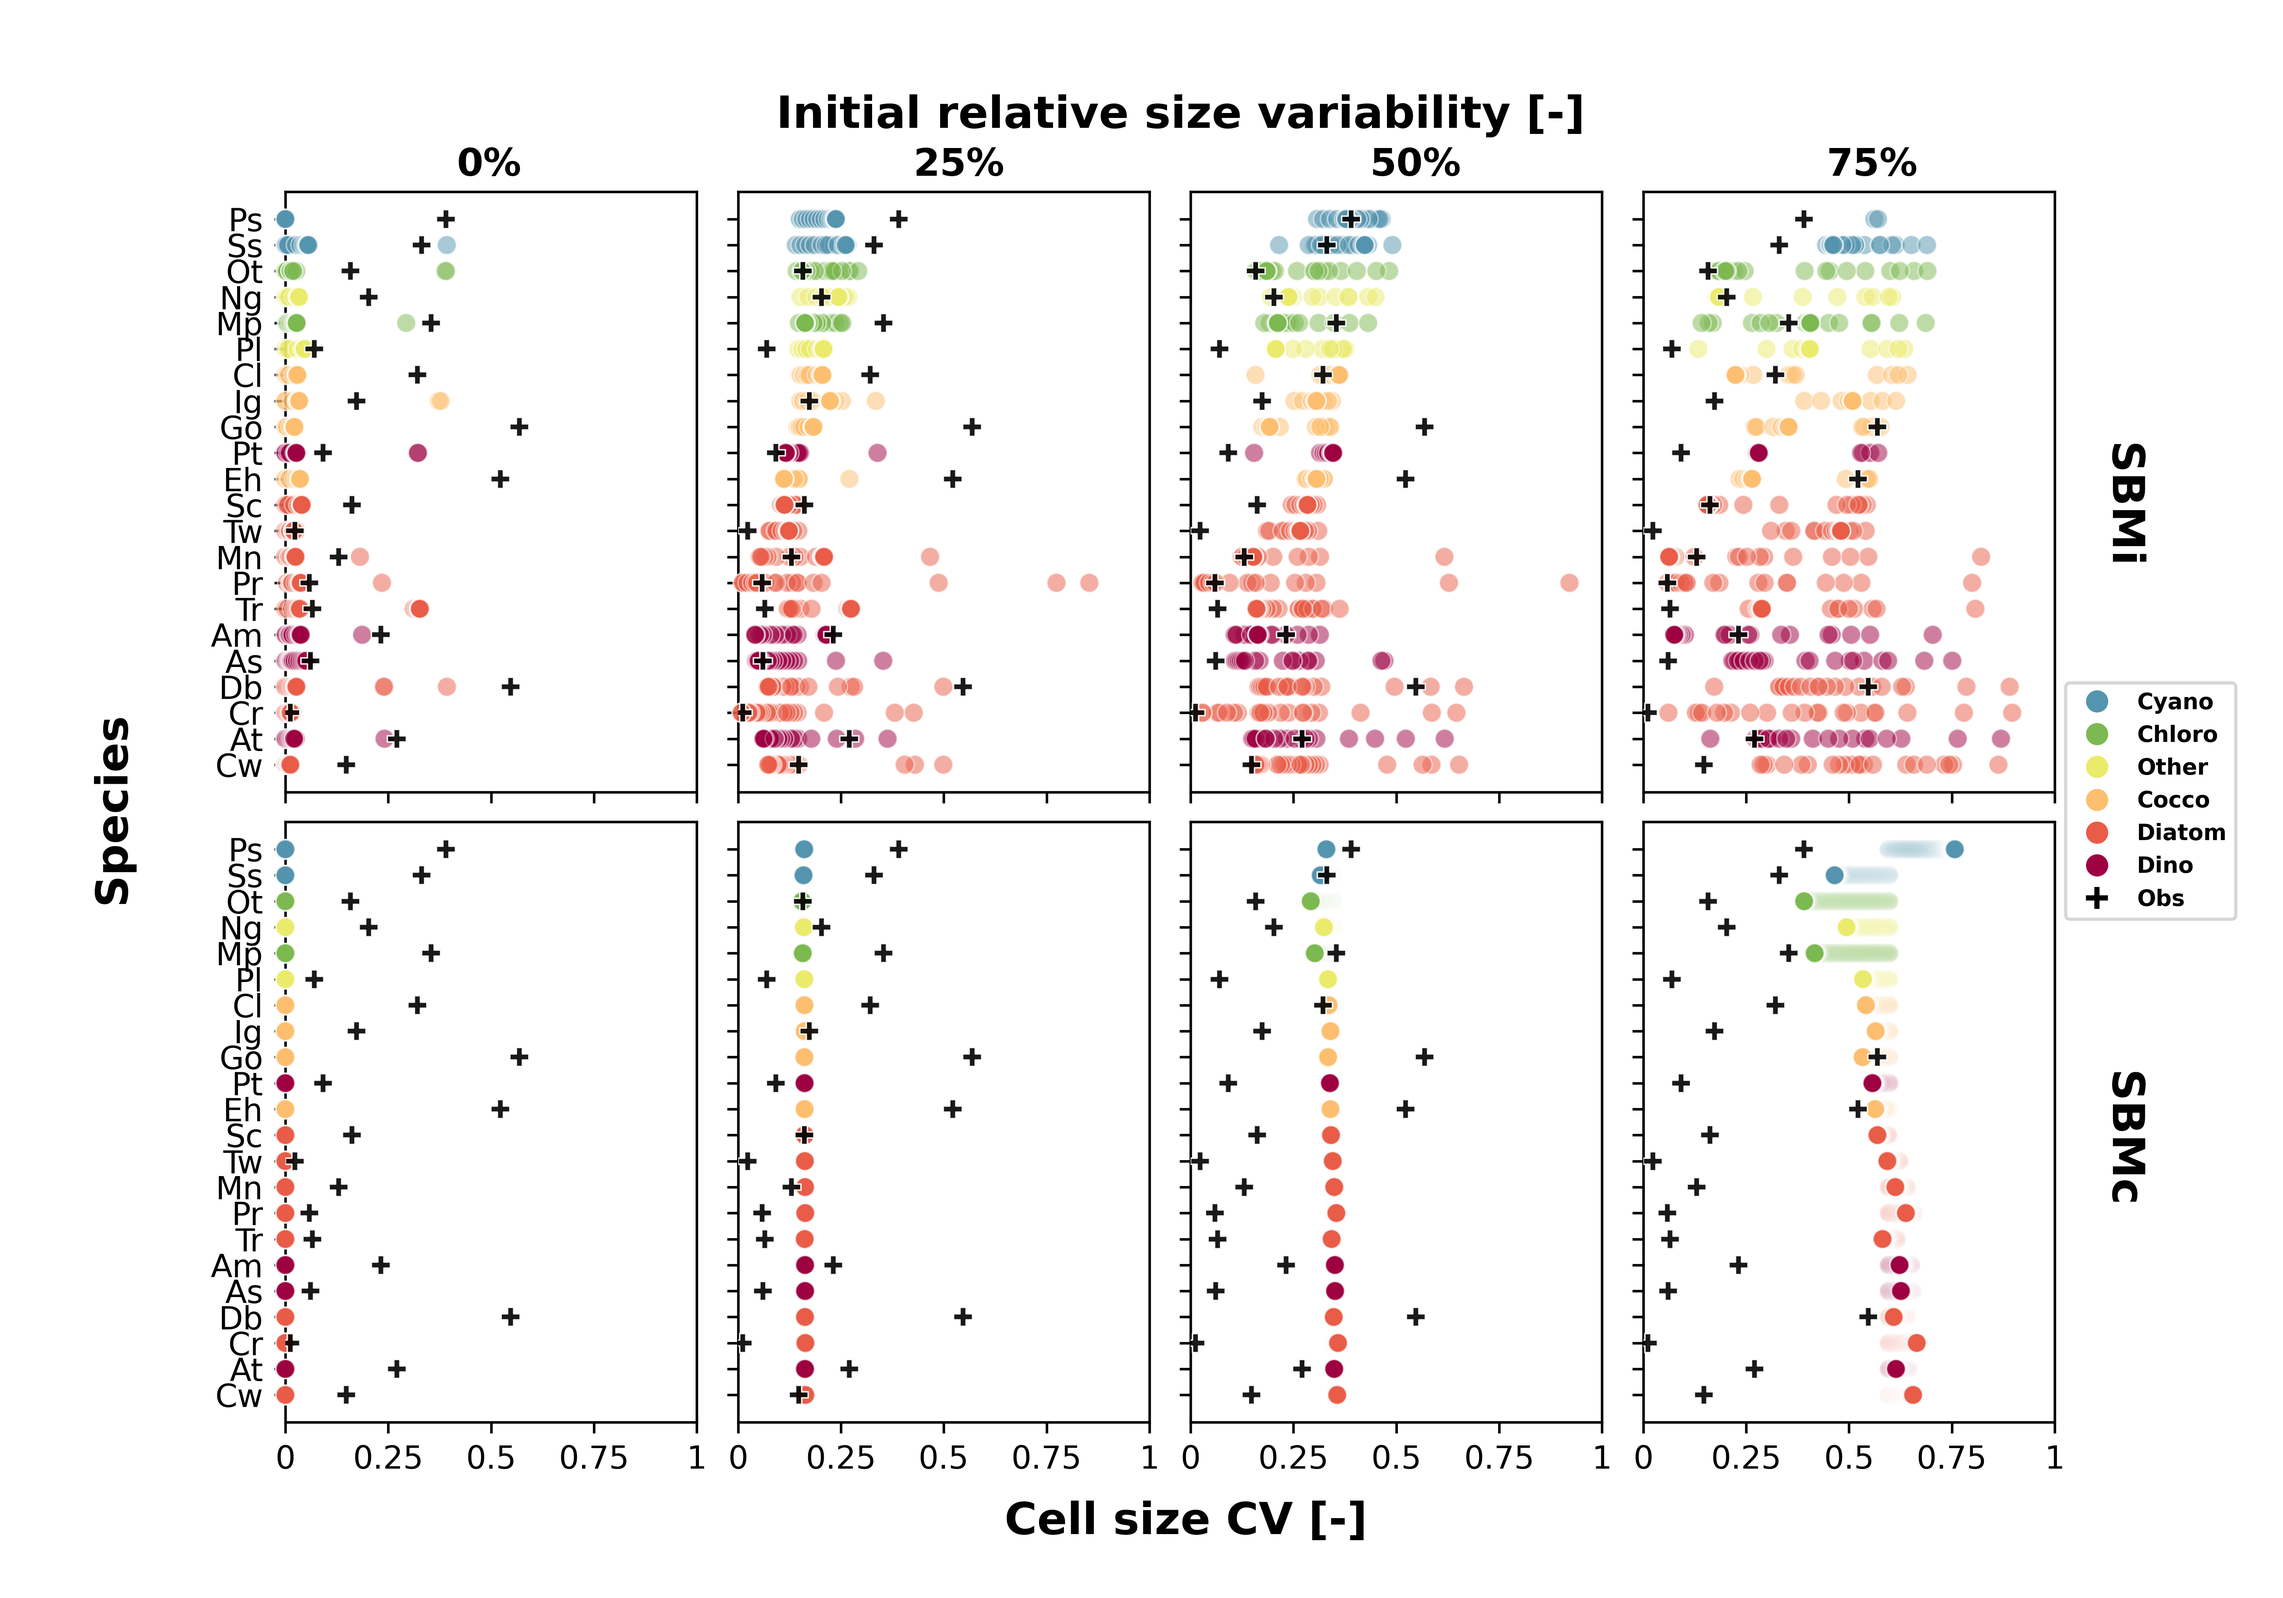
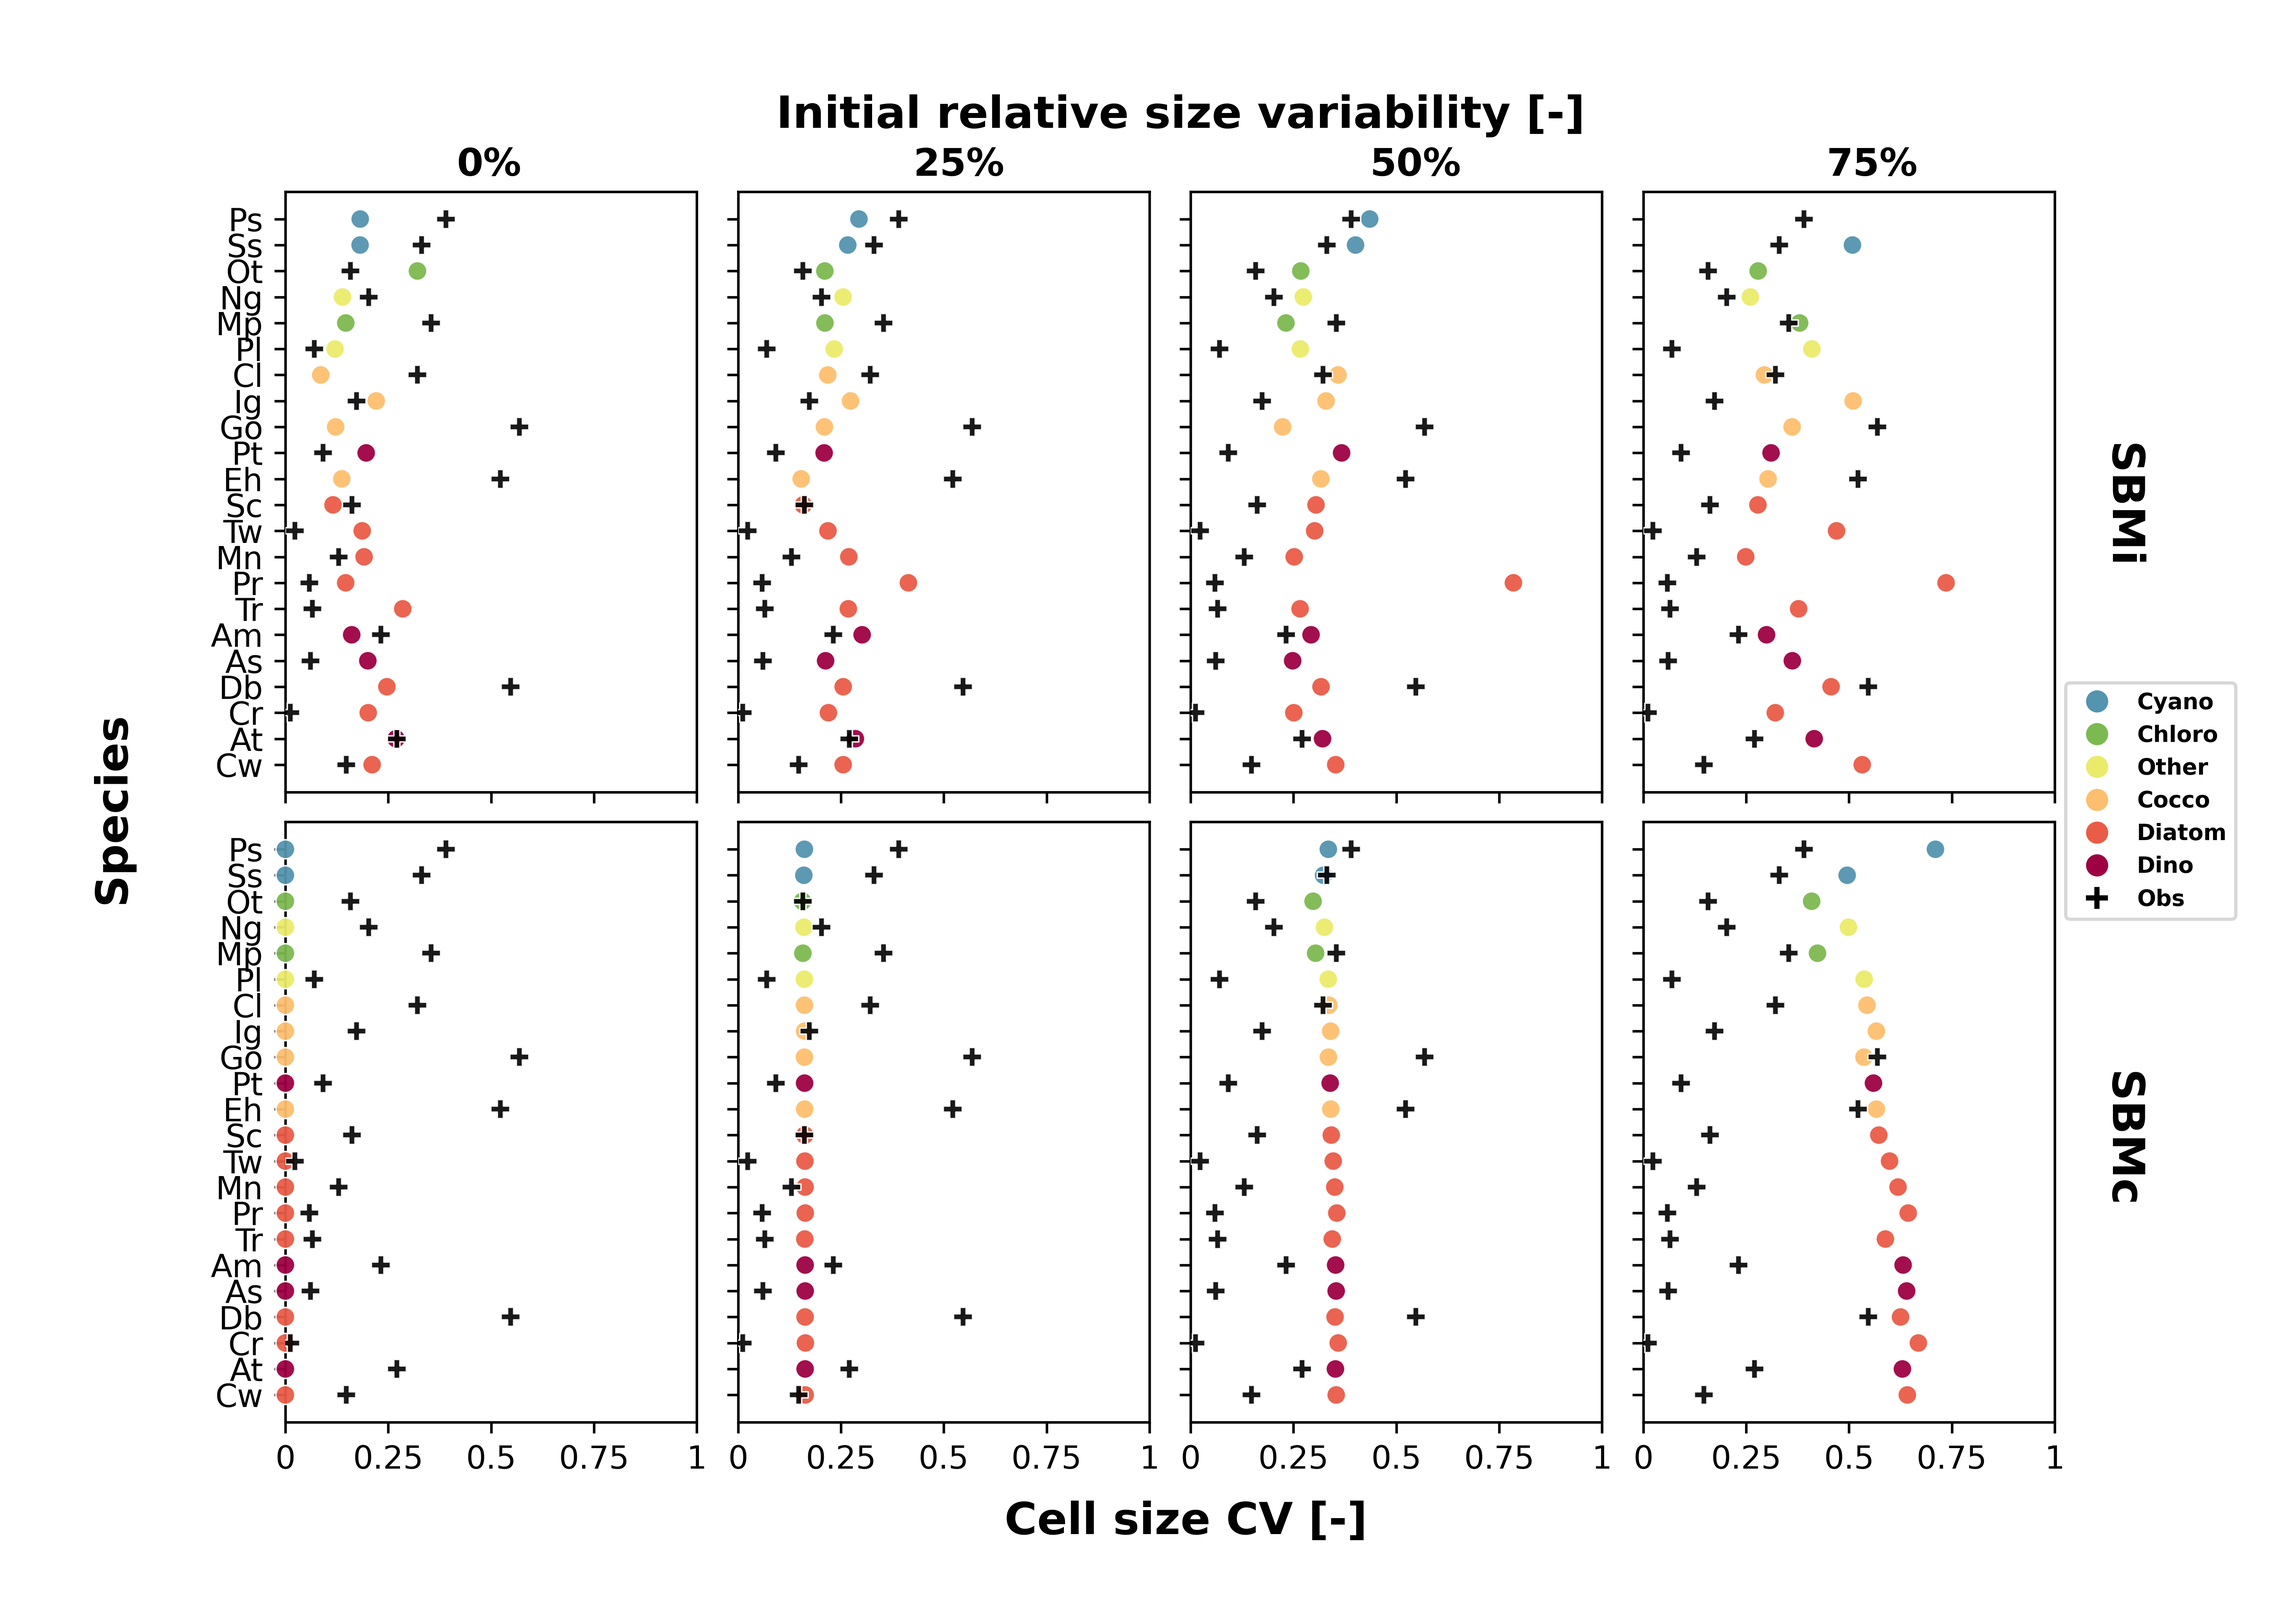
Simplified figure 6 on figures.py to show integrated CV rather than CV calculated at each time step. Added figures with test of other model variants and MREG.

diff --git a/insidephy/examples/figures.py b/insidephy/examples/figures.py
@@ -441,7 +441,11 @@ def figure6():
         """
         wmean = np.nansum(values * weight, axis=axis) / np.nansum(weight, axis=axis)
         wvar = np.nansum(values ** 2 * weight, axis=axis) / np.nansum(weight, axis=axis) - wmean ** 2
-        return np.sqrt(wvar) / wmean
+        if wvar < 0:
+            cv = 0
+        else:
+            cv = np.sqrt(wvar) / wmean
+        return cv
 
     list_files = ['Single_spp_exp_0percent.zarr', 'Single_spp_exp_25percent.zarr',
                   'Single_spp_exp_50percent.zarr', 'Single_spp_exp_75percent.zarr']
@@ -463,25 +467,25 @@ def figure6():
     for fname, ncol in zip(list_files, np.arange(4)):
         sbm_data_path = pkg_resources.resource_filename('insidephy.examples', fname)
         sbmc = xr.open_zarr(sbm_data_path + '/sbmc').to_dataframe()
-        sbmcbysppt = (sbmc.groupby(['spp', 'time'])
+        sbmcbysppt = (sbmc.groupby(['spp'])
                       .apply(lambda x: coefvar(x.cell_size, x.abundance))
                       .reset_index()
                       .rename(columns={0: 'CV'})
                       )
         sbmi = xr.open_zarr(sbm_data_path + '/sbmi_asyn').to_dataframe()
-        sbmibysppt = (sbmi.groupby(['spp', 'time'])
+        sbmibysppt = (sbmi.groupby(['spp'])
                       .apply(lambda x: coefvar(x.cell_size, x.rep_nind))
                       .reset_index()
                       .rename(columns={0: 'CV'})
                       )
 
-        PFT_c = np.repeat(['Dino', 'Dino', 'Dino', 'Cocco', 'Diatom', 'Diatom', 'Diatom', 'Cocco', 'Cocco',
+        PFT_c = ['Dino', 'Dino', 'Dino', 'Cocco', 'Diatom', 'Diatom', 'Diatom', 'Cocco', 'Cocco',
                            'Cocco', 'Diatom', 'Chloro', 'Other', 'Chloro', 'Other', 'Diatom', 'Cyano', 'Dino',
-                           'Diatom', 'Cyano', 'Diatom', 'Diatom'], sbmc.time.unique().size)
+                           'Diatom', 'Cyano', 'Diatom', 'Diatom']
 
-        PFT_i = np.repeat(['Dino', 'Dino', 'Dino', 'Cocco', 'Diatom', 'Diatom', 'Diatom', 'Cocco', 'Cocco',
+        PFT_i = ['Dino', 'Dino', 'Dino', 'Cocco', 'Diatom', 'Diatom', 'Diatom', 'Cocco', 'Cocco',
                            'Cocco', 'Diatom', 'Chloro', 'Other', 'Chloro', 'Other', 'Diatom', 'Cyano', 'Dino',
-                           'Diatom', 'Cyano', 'Diatom', 'Diatom'], sbmi.time.unique().size)
+                           'Diatom', 'Cyano', 'Diatom', 'Diatom']
 
         pfts = ['Cyano', 'Chloro', 'Other', 'Cocco', 'Diatom', 'Dino']
         spp_name_tag = ['Ps', 'Ss', 'Ot', 'Ng', 'Mp', 'Pl', 'Cl', 'Ig', 'Go', 'Pt', 'Eh', 'Sc',
@@ -490,9 +494,9 @@ def figure6():
         sbmibysppt['Species'] = pd.Categorical(sbmibysppt['spp'], spp_name_tag)
 
         sns.scatterplot(x='CV', y="Species", data=sbmibysppt, hue=PFT_i,
-                        hue_order=pfts, alpha=.50, ax=axs6[0, ncol], legend=False, zorder=3, clip_on=False)
+                        hue_order=pfts, alpha=.95, ax=axs6[0, ncol], legend=False, zorder=3, clip_on=False)
         sns.scatterplot(x='CV', y="Species", data=sbmcbysppt, hue=PFT_c,
-                        hue_order=pfts, alpha=.50, ax=axs6[1, ncol], legend=False, zorder=3, clip_on=False)
+                        hue_order=pfts, alpha=.95, ax=axs6[1, ncol], legend=False, zorder=3, clip_on=False)
 
     for ax in axs6.ravel():
         sns.scatterplot(x='CV', y='Spp_name_short', data=obsCV, alpha=.90, marker='P', color='black', zorder=10,
